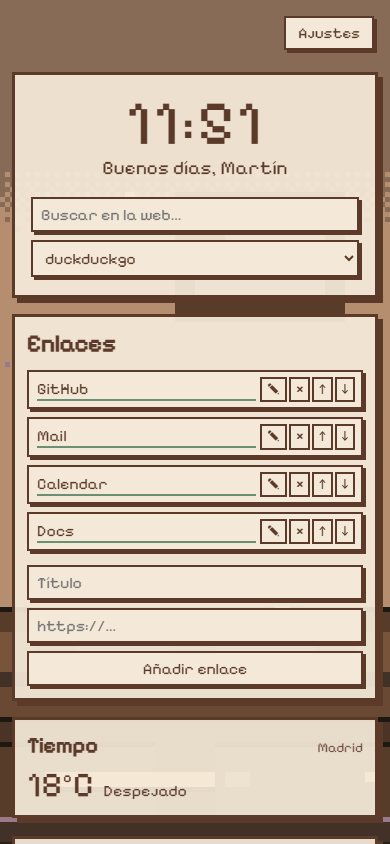
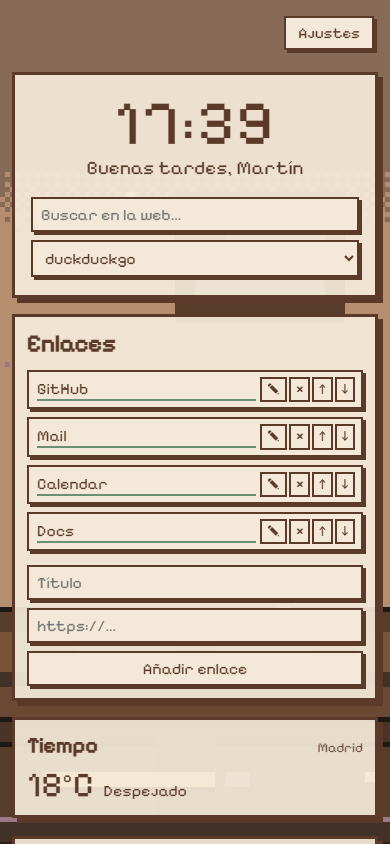
chore(release): 1.1.0 (#12)
Full-screen layered scenes and accessible pixel dialogs. Bump the version, date the changelog section and add dialog screenshots to the README.

Changed region(s): [[0.2154, 0.1232, 0.7692, 0.2156]]

diff --git a/CHANGELOG.md b/CHANGELOG.md
@@ -4,6 +4,10 @@ All notable changes to this project will be documented in this file.
 
 ## [Unreleased]
 
+## [1.1.0] - 2026-11-05
+
+Visual redesign: full-screen layered scenes, time-of-day palettes and accessible pixel dialogs.
+
 ### Added
 
 - Full-screen pixel-art backdrop: a 320×180 canvas scaled by the smallest integer factor that covers
@@ -23,7 +27,6 @@ All notable changes to this project will be documented in this file.
 
 - Link editing and destructive actions no longer use `prompt()`, `alert()` or `confirm()`; every
   dialog is a themed `<dialog>` element.
-
 - The UI now sits on translucent pixel panels over the scene: clock, greeting and search centred,
   links on the left, weather and tasks on the right, stacked on phones.
 - Config format is version 2. v1 configs and v1 backups are migrated automatically, including the

diff --git a/README.md b/README.md
@@ -107,6 +107,10 @@ docs            plan, progress log and architecture decisions
 | ------------------------------------------------- | -------------------------------------------- |
 | ![Settings dialog](docs/screenshots/settings.png) | ![Phone layout](docs/screenshots/mobile.png) |
 
+| Link editor                                             | Delete confirmation                                         |
+| ------------------------------------------------------- | ----------------------------------------------------------- |
+| ![Link editor dialog](docs/screenshots/dialog-edit.png) | ![Delete confirmation](docs/screenshots/dialog-confirm.png) |
+
 The four scenes at their signature time of day: rainy window at night, forest at dusk, cafe at day
 and mountain lake at dawn.
 
